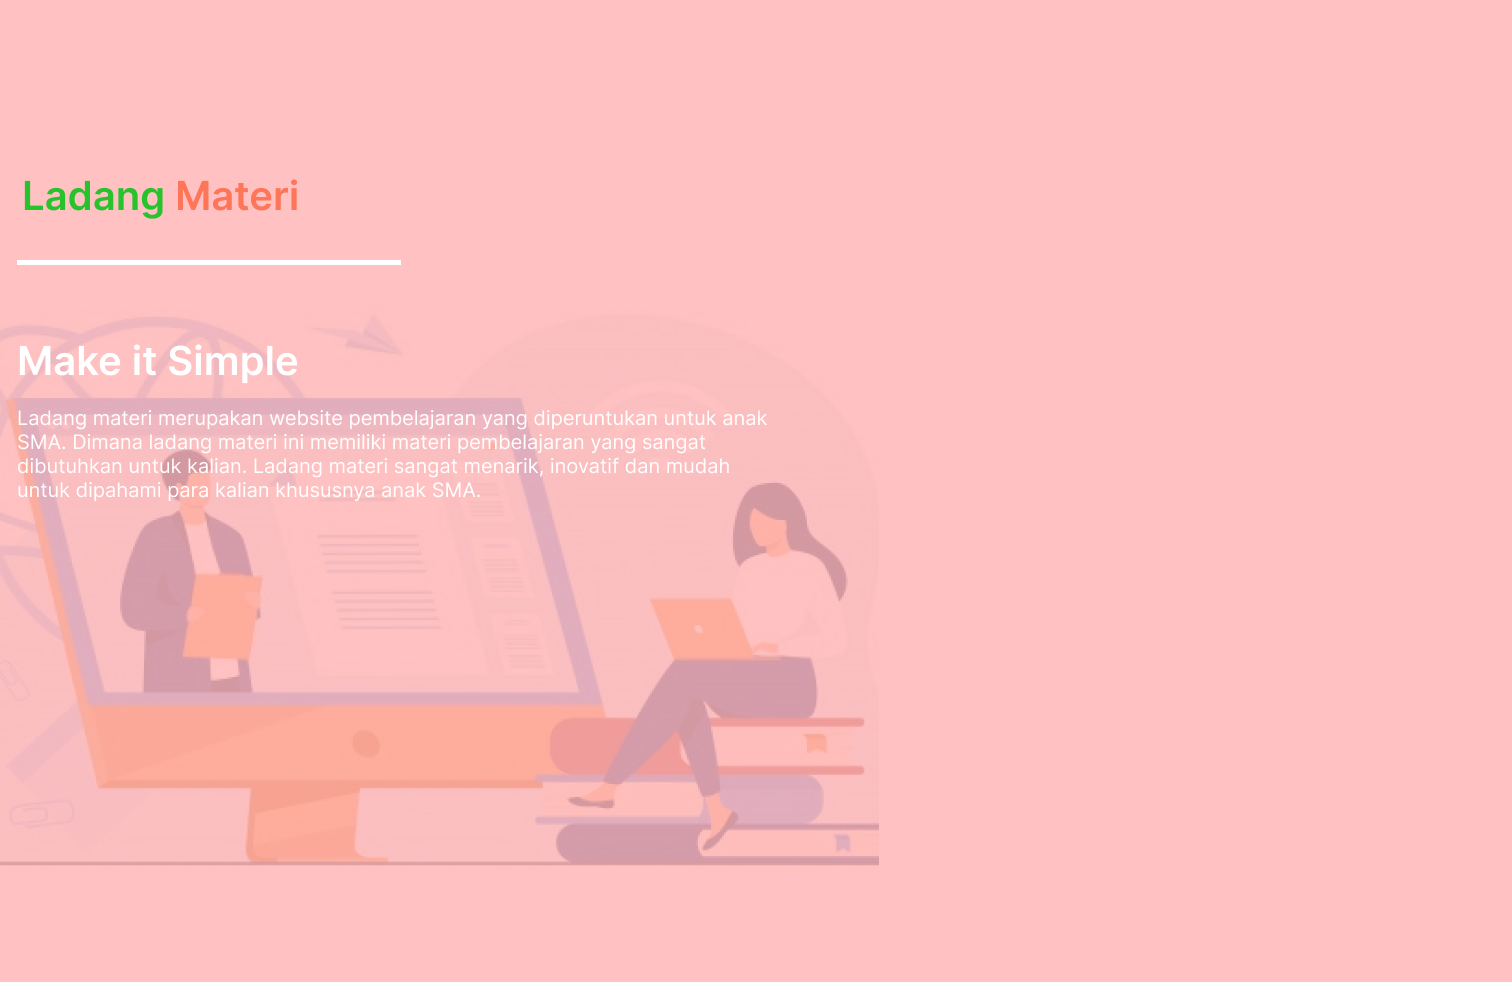
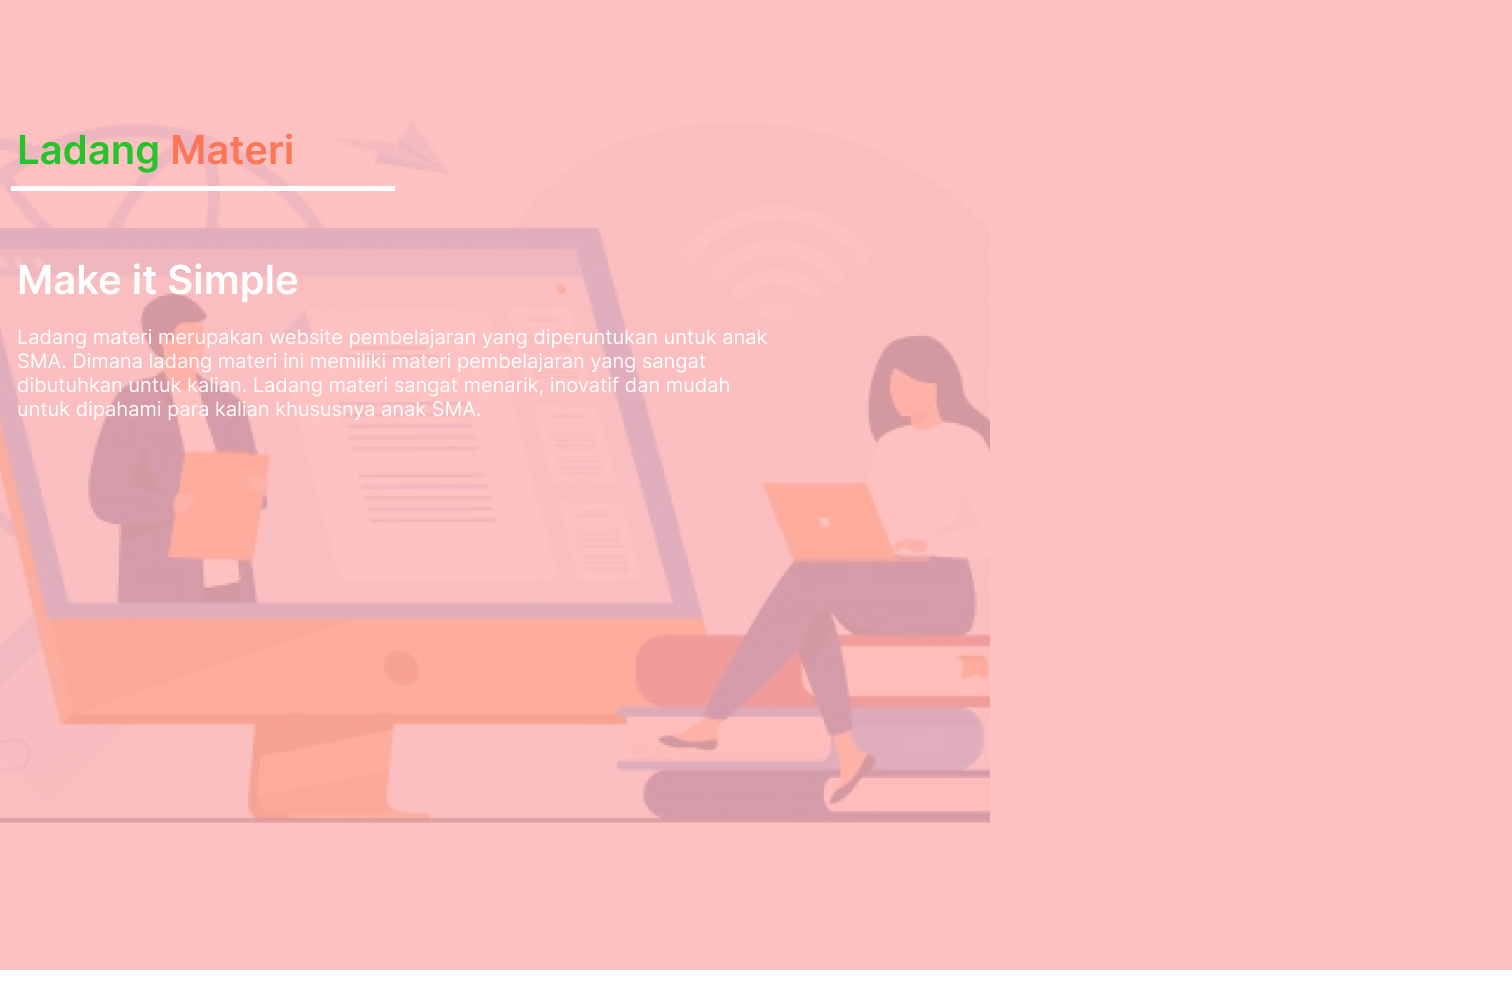
progress login

Changed region(s): [[0.0, 0.1222, 0.6528, 0.8859], [0.0, 0.9776, 1.0, 1.0], [0.5595, 0.336, 0.6528, 0.4582]]

diff --git a/frontend/src/components/login navbar/navbar.jsx b/frontend/src/components/login navbar/navbar.jsx
@@ -1,44 +1,24 @@
 import React from "react";
 import "./navbarlogin.css";
+import img from "../../assets/img/img-login.png";
 
-export default function navbar() {
+let sectionStyle = {
+  width: "100%",
+  height: "100vh",
+
+  // backgroundPosition: 'center',
+  backgroundSize: "cover",
+  backgroundRepeat: "no-repseat",
+  backgroundImage: `url(${img})`,
+};
+
+function navbar() {
   return (
-    <div className="container">
-      <div class="row">
-        <div className="col">
-          <h1 className="text-login"> Log in Your Account</h1>
-        </div>
+    <div className="main-login" style={sectionStyle}>
+      <div className="login-contain"></div>
 
-        <form>
-          <div class="form-group row mb-3">
-            <label for="inputEmail3" class="col-sm-2 col-form-label">
-              Email
-            </label>
-            <div class="col-sm-10">
-              <input type="email" class="form-control" id="inputEmail3" placeholder="Email"></input>
-            </div>
-          </div>
-
-          <div class="form-group row mb-3">
-            <label for="inputPassword3" class="col-sm-2 col-form-label">
-              Password
-            </label>
-            <div class="col-sm-10">
-              <input type="password" class="form-control" id="inputPassword3" placeholder="Password"></input>
-            </div>
-          </div>
-
-          <div className="buttonLogin">
-            <button type="button" class="btn btn-success">
-              Login
-            </button>
-            <p className="text-black">
-              {" "}
-              dont have an account?<a href="/register"> Register</a>
-            </p>
-          </div>
-        </form>
-      </div>
+      <form></form>
     </div>
   );
 }
+export default navbar;

diff --git a/frontend/src/components/login navbar/navbarlogin.css b/frontend/src/components/login navbar/navbarlogin.css
@@ -1,7 +1,14 @@
-.col h4 {
-  margin-top: 10px;
+.main-login h1 {
+  text-align: left;
+  margin-top: 100px;
+  margin-left: 10px;
   float: right;
   font-size: 2em;
+}
+.border{
+    border: 1px solid #ccc;
+    padding: 10px;
+    border-radius: 5px;
 }
 
 .buttonLogin {
